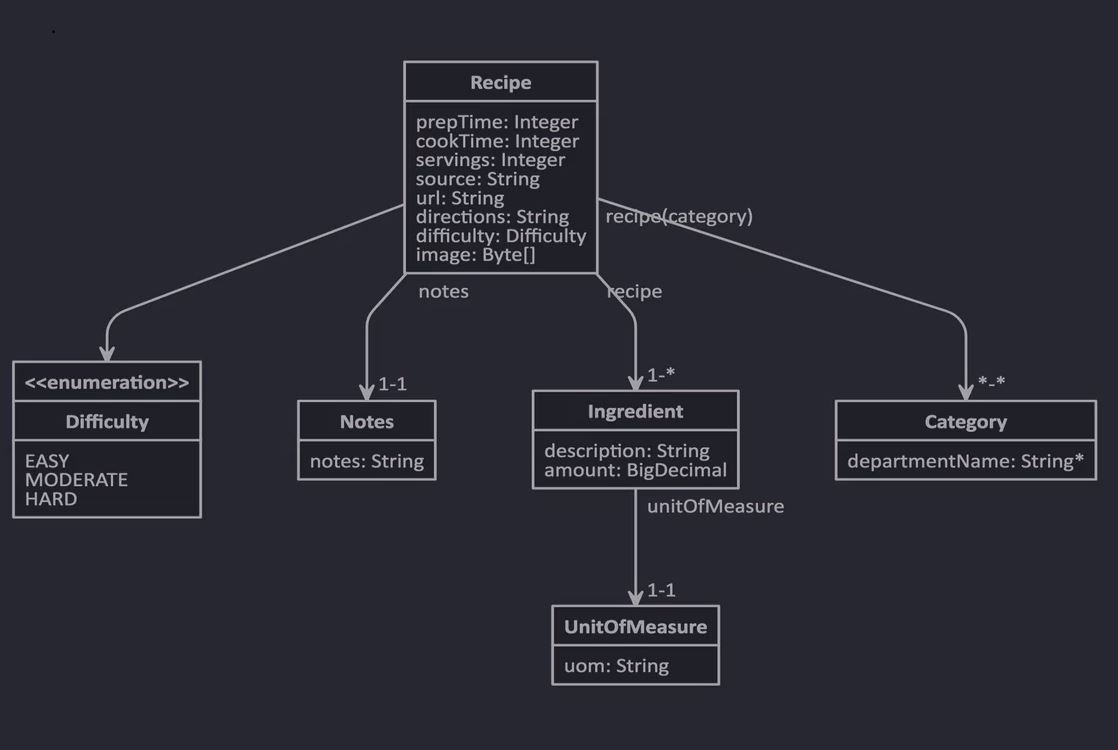
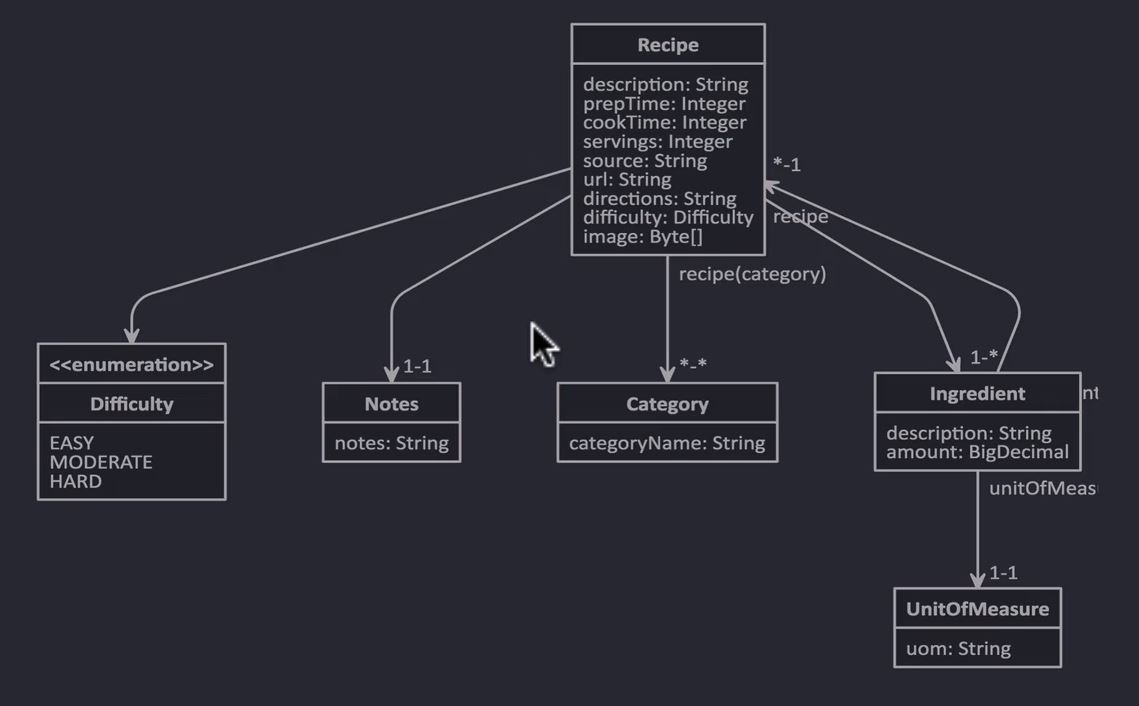
updated

diff --git a/src/main/java/com/recipe/recipespringapp/domain/Recipe.java b/src/main/java/com/recipe/recipespringapp/domain/Recipe.java
@@ -1,0 +1,38 @@
+package com.recipe.recipespringapp.domain;
+
+import lombok.Getter;
+import lombok.Setter;
+
+import javax.persistence.*;
+
+/**
+ * Created by nichaurasia on Monday, December/09/2019 at 11:19 PM
+ */
+
+@Getter
+@Setter
+@Entity
+public class Recipe {
+
+    //Adding the ID for the Database
+    @Id
+    @GeneratedValue(strategy = GenerationType.IDENTITY)
+    private Long id;
+    private String description;
+    private Integer prepTime;
+    private Integer cookTime;
+    private Integer servings;
+    private String source;
+    private String url;
+    private String directions;
+    //TODO
+    //private Difficulty difficulty;
+
+    @Lob
+    private Byte[] image;
+
+    // Notes is owned by each recepie
+    @OneToOne(cascade = CascadeType.ALL)
+    private Notes notes;
+
+}

diff --git a/src/main/java/com/recipe/recipespringapp/domain/Ingredient.java b/src/main/java/com/recipe/recipespringapp/domain/Ingredient.java
@@ -1,0 +1,21 @@
+package com.recipe.recipespringapp.domain;
+
+import javax.persistence.GeneratedValue;
+import javax.persistence.GenerationType;
+import javax.persistence.Id;
+import java.math.BigDecimal;
+
+/**
+ * Created by nichaurasia on Monday, December/09/2019 at 11:53 PM
+ */
+
+public class Ingredient {
+
+    @Id
+    @GeneratedValue(strategy = GenerationType.IDENTITY)
+    private Long id;
+    private String description;
+    private BigDecimal amount;
+    private Recipe recepie;
+    //private UnitOfMeasure uom
+}

diff --git a/src/main/java/com/recipe/recipespringapp/domain/Notes.java b/src/main/java/com/recipe/recipespringapp/domain/Notes.java
@@ -1,0 +1,26 @@
+package com.recipe.recipespringapp.domain;
+
+import lombok.Getter;
+import lombok.Setter;
+
+import javax.persistence.*;
+
+/**
+ * Created by nichaurasia on Monday, December/09/2019 at 11:19 PM
+ */
+
+@Entity
+@Getter
+@Setter
+public class Notes {
+
+    @Id
+    @GeneratedValue(strategy = GenerationType.IDENTITY)
+    private Long id;
+
+    @OneToOne
+    private Recipe recipe;
+
+    @Lob
+    private String recipeNotes;
+}
